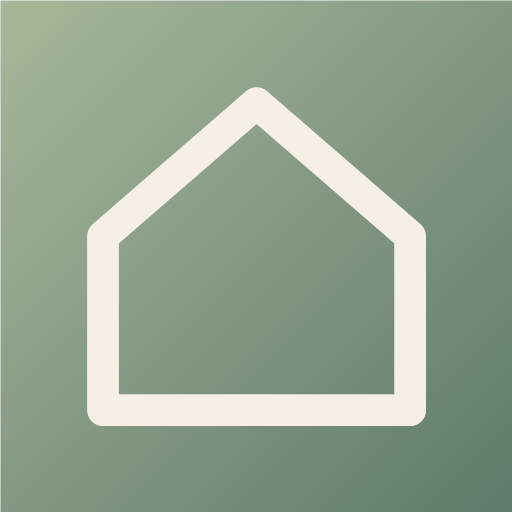
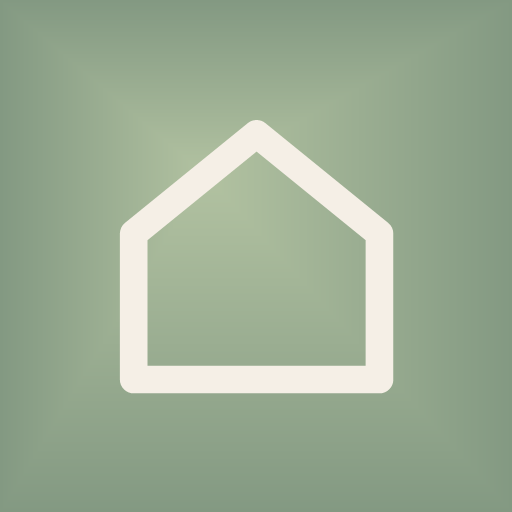
Add files via upload

diff --git a/CASA.html b/CASA.html
@@ -223,7 +223,7 @@ h2 svg{width:18px;height:18px;vertical-align:middle}
   .f2{grid-template-columns:1fr}
 }
 /* ----- Splash de arranque: fundo verde (igual ao ícone) + casa a desenhar-se ----- */
-#splash{position:fixed;inset:0;z-index:10000;display:flex;align-items:center;justify-content:center;background:linear-gradient(135deg,#a7b89a,#5f7a6b);transition:opacity .55s ease}
+#splash{position:fixed;inset:0;z-index:10000;display:flex;align-items:center;justify-content:center;background:#839982 radial-gradient(circle at 40% 34%,#b2c2a1,#839982);transition:opacity .55s ease}
 #splash.done{opacity:0;pointer-events:none}
 #splash svg{width:108px;height:108px;filter:drop-shadow(0 6px 18px rgba(0,0,0,.18));animation:splashPop 1.6s ease both}
 #splash .house{fill:none;stroke:#f5efe6;stroke-width:1.9;stroke-linecap:round;stroke-linejoin:round;stroke-dasharray:1;stroke-dashoffset:1;animation:houseDraw 1.15s ease .15s forwards}

diff --git a/sw.js b/sw.js
@@ -1,5 +1,5 @@
 /* CASA · service worker — network-first (apanha sempre updates online; cache só p/ offline) */
-const CACHE = 'casa-v3';
+const CACHE = 'casa-v4';
 const ASSETS = ['CASA.html', 'manifest.webmanifest', 'icon-192.png', 'icon-512.png', 'apple-touch-icon.png'];
 self.addEventListener('install', e => {
   self.skipWaiting();